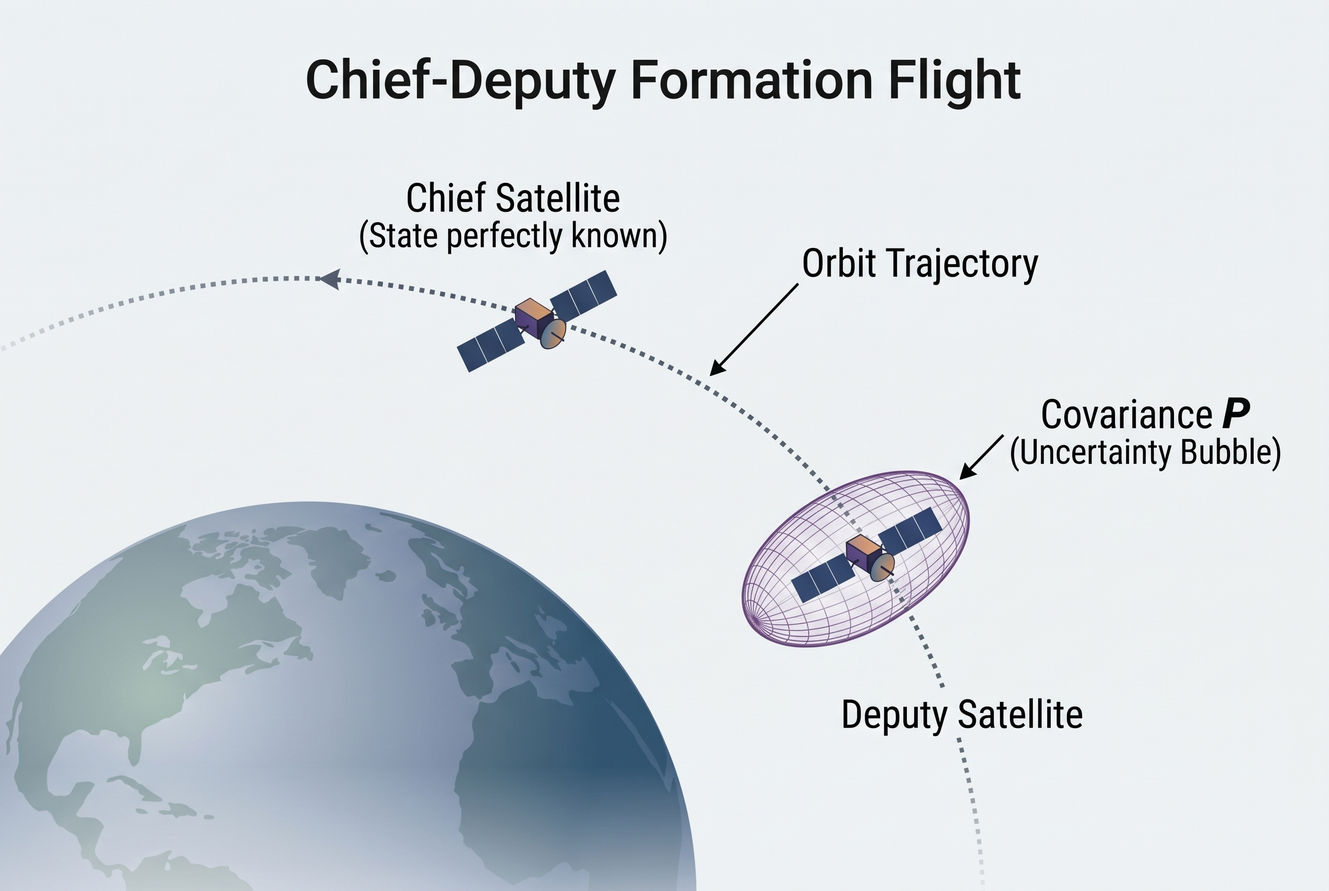
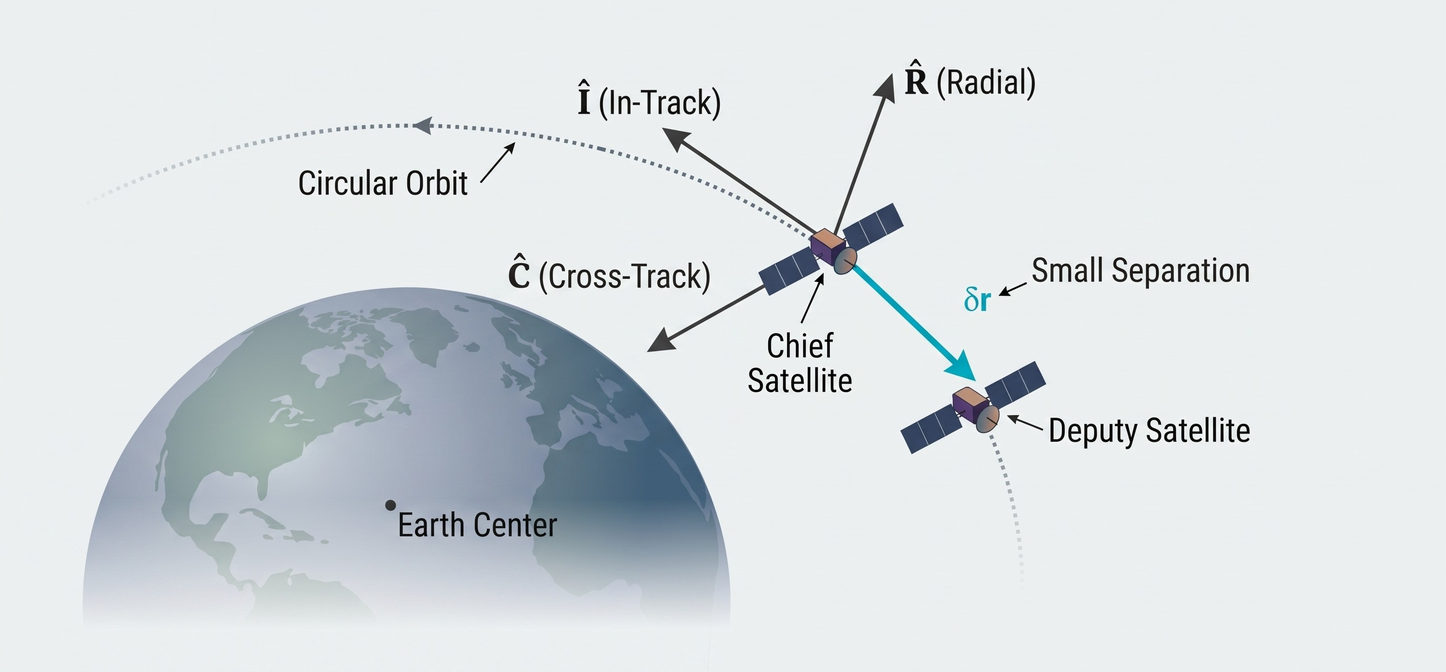
fixed image issue

diff --git a/index.html b/index.html
@@ -134,7 +134,18 @@ Figure&nbsp;1: Chief-Deputy formation flight geometry. <em>Diagram generated wit
 <p>While <a href="#eq-lincov" class="quarto-xref">Equation&nbsp;1</a> stays the same, the STM <span class="math inline">\(\mathbf{\Phi}\)</span> changes depending on the state representation we choose — as well as its ability to accurately capture the nonlinear dynamics present in orbit. As mentioned above, we will take two different state representations: a RIC framework framework using CW-equations and an orbital parameterization using ROEs.</p>
 <section id="clohessy-wiltshire-stm" class="level3">
 <h3 class="anchored" data-anchor-id="clohessy-wiltshire-stm">Clohessy Wiltshire STM</h3>
-<p>To understand how <span class="math inline">\(\mathbf{\Phi}\)</span> is formed using the CW-equations, we must first visit the RIC frame. This is because the CW equations are defined in the RIC frame, which is fixed to the Chief satellite. The radial unit vector is defined by <a href="#eq-Radial" class="quarto-xref">Equation&nbsp;2</a>.</p>
+<p>To understand how <span class="math inline">\(\mathbf{\Phi}\)</span> is formed using the CW-equations, we must first visit the RIC frame. This is because the CW equations are defined in the RIC frame, which is fixed to the Chief satellite as shown in <a href="#fig-RIC_frame" class="quarto-xref">Figure&nbsp;2</a>.</p>
+<div id="fig-RIC_frame" class="quarto-float quarto-figure quarto-figure-center anchored" data-fig-align="center">
+<figure class="quarto-float quarto-float-fig figure">
+<div aria-describedby="fig-RIC_frame-caption-0ceaefa1-69ba-4598-a22c-09a6ac19f8ca">
+<img src="images/RIC_frame_CW.jpg" class="img-fluid quarto-figure quarto-figure-center figure-img" style="width:80.0%">
+</div>
+<figcaption class="quarto-float-caption-bottom quarto-float-caption quarto-float-fig" id="fig-RIC_frame-caption-0ceaefa1-69ba-4598-a22c-09a6ac19f8ca">
+Figure&nbsp;2: Chief-Deputy RIC Frame Geometry. <em>Diagram generated with Gemini.</em>
+</figcaption>
+</figure>
+</div>
+<p>The radial unit vector is defined by <a href="#eq-Radial" class="quarto-xref">Equation&nbsp;2</a>.</p>
 <p><span id="eq-Radial"><span class="math display">\[
 \hat{R} = \frac{\mathbf{r_c}}{||\mathbf{r_c}||}
 \tag{2}\]</span></span></p>
@@ -146,16 +157,6 @@ Figure&nbsp;1: Chief-Deputy formation flight geometry. <em>Diagram generated wit
 <p><span id="eq-IN"><span class="math display">\[
   \hat{I} = \hat{C} \times \hat{R}
 \tag{4}\]</span></span></p>
-<div id="fig-RIC_frame" class="quarto-float quarto-figure quarto-figure-center anchored" data-fig-align="center">
-<figure class="quarto-float quarto-float-fig figure">
-<div aria-describedby="fig-RIC_frame-caption-0ceaefa1-69ba-4598-a22c-09a6ac19f8ca">
-<img src="Images/RIC_frame_CW.jpg" class="img-fluid quarto-figure quarto-figure-center figure-img" style="width:80.0%">
-</div>
-<figcaption class="quarto-float-caption-bottom quarto-float-caption quarto-float-fig" id="fig-RIC_frame-caption-0ceaefa1-69ba-4598-a22c-09a6ac19f8ca">
-Figure&nbsp;2: Chief-Deputy RIC Frame Geometry. <em>Diagram generated with Gemini.</em>
-</figcaption>
-</figure>
-</div>
 <p>By assuming that the Chief satellite is in a circular orbit, and that the distance between the Chief and Deputy is much smaller than the Chief’s orbital radius (<span class="math inline">\(||\delta \mathbf{r}|| &lt;&lt; \mathbf{r}_c\)</span>), Clohessy and Wiltshire formulated the following equations.<sup><a href="#ref-cw">1</a></sup></p>
 <p>The CW (Clohessy Wiltshire) equations assume the Chief satellite is in a circular orbit.</p>
 </section>
